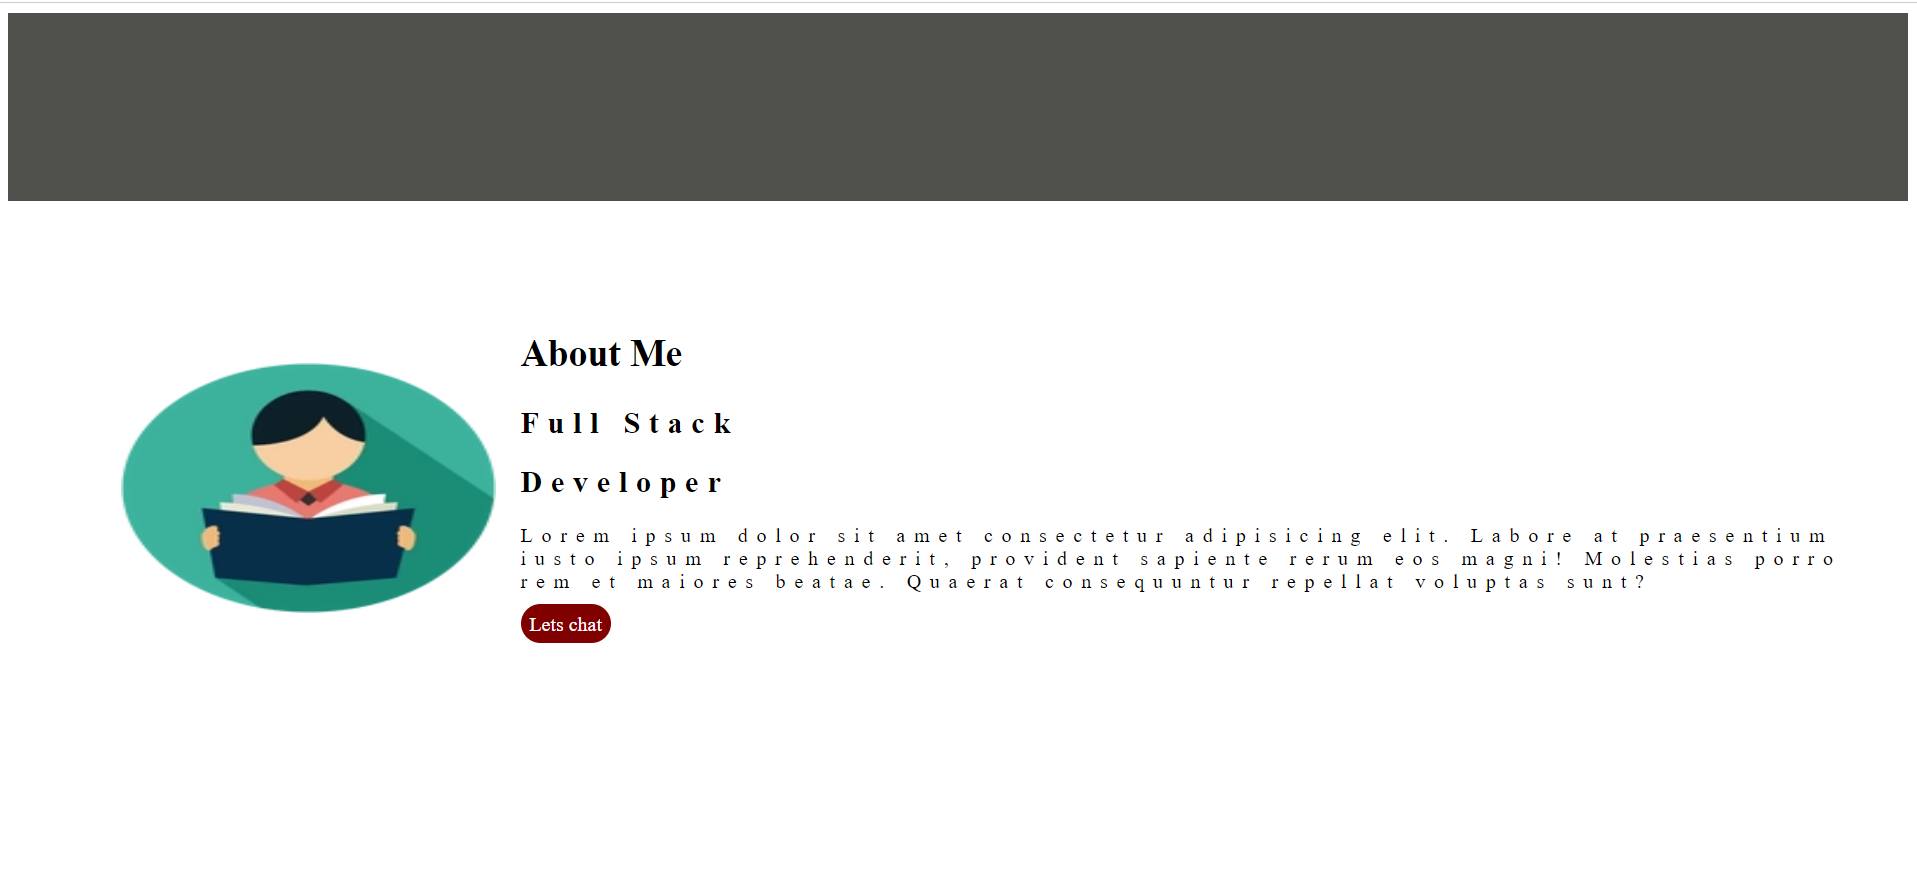
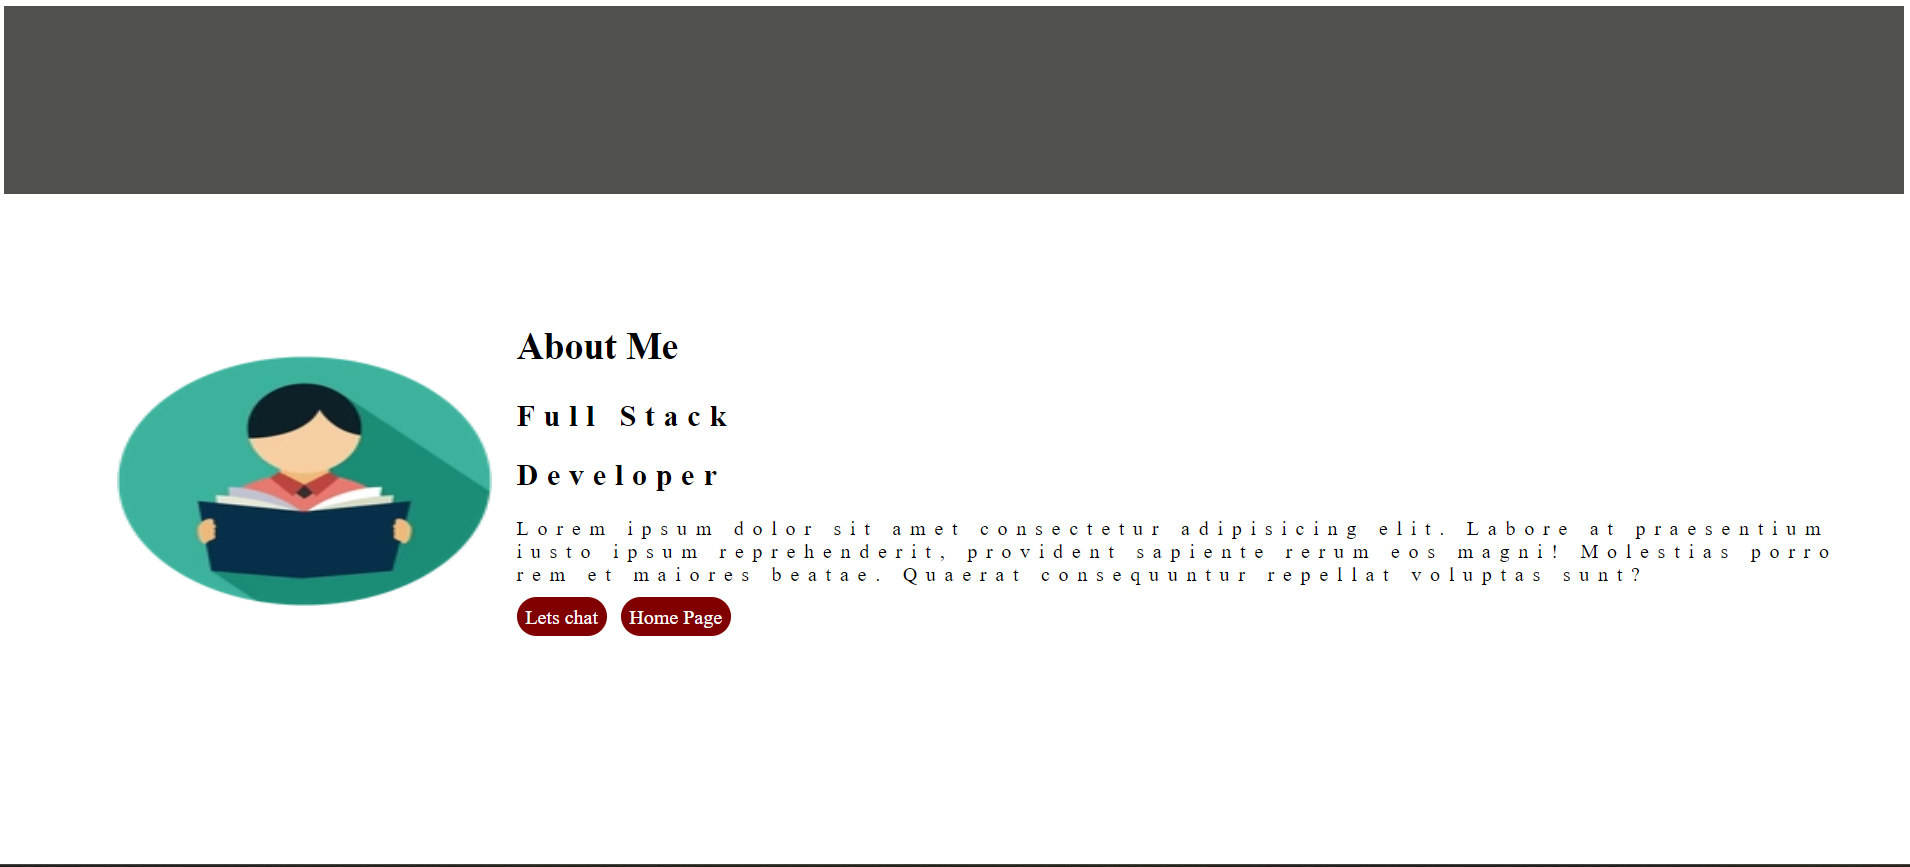
Add files via upload

diff --git a/About.html b/About.html
@@ -50,6 +50,7 @@
         {
             margin-right: 50px;
         }
+        
 
     </style>
 </head>
@@ -67,6 +68,7 @@
             <h2>Developer</h2>
             <p>Lorem ipsum dolor sit amet consectetur adipisicing elit. Labore at praesentium iusto ipsum reprehenderit, provident sapiente rerum eos magni! Molestias porro rem et maiores beatae. Quaerat consequuntur repellat voluptas sunt?</p>
             <a href="#" class="button">Lets chat</a>
+            <a href="#" class="button">Home Page</a>
         </div>
     </section>
 </body>
